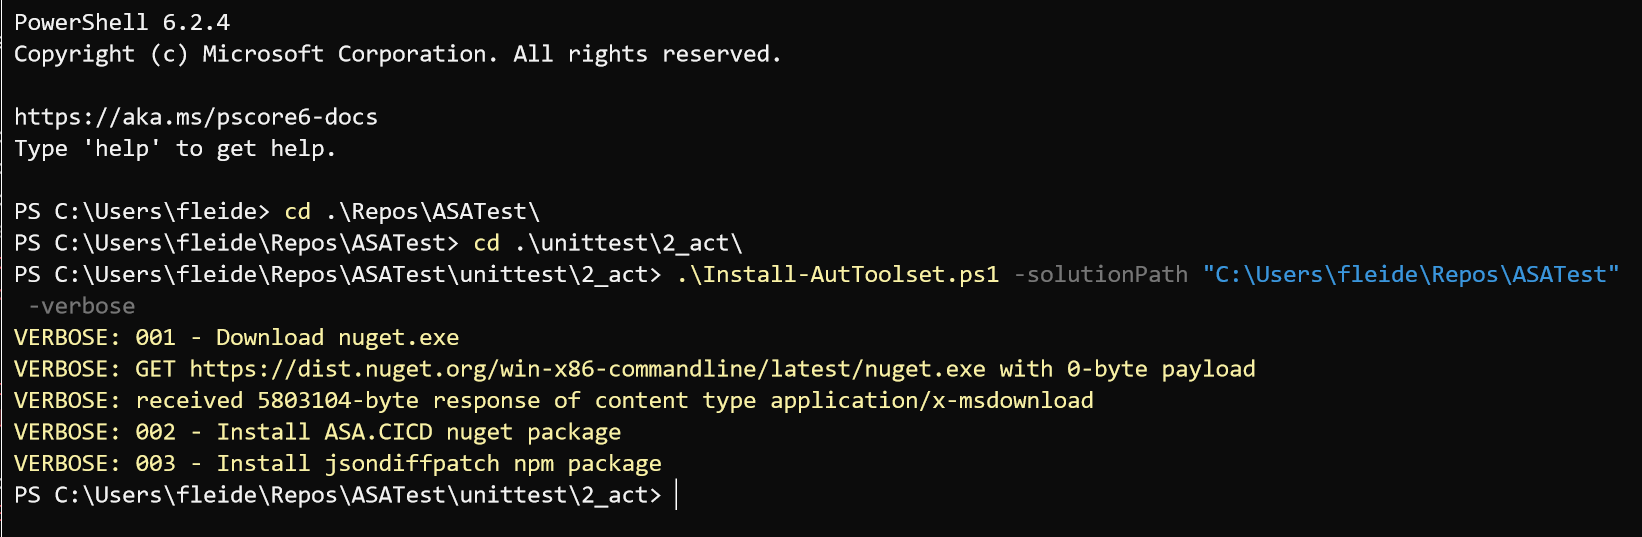
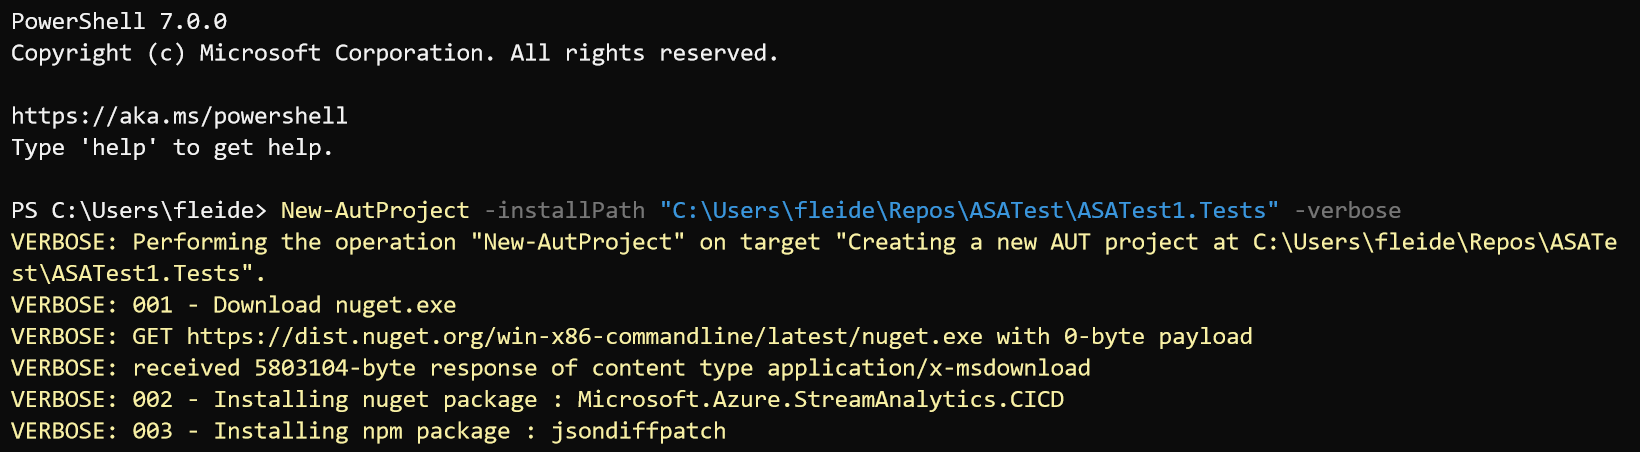
Update doc for 1.0.2

Changed region(s): [[0.0, 0.3717, 0.9951, 0.9912], [0.0, 0.031, 0.4665, 0.1549], [0.0, 0.1858, 0.2488, 0.3407]]

diff --git a/_posts/2020-03-03-asa-alm105.md b/_posts/2020-03-03-asa-alm105.md
@@ -61,10 +61,18 @@ If it's not already the case, we will need to create a solution folder that will
 
 Let's try to keep most of the wiring working by:
 
-- Creating a new `ASATest1` folder in our existing `ASATest1` folder
+- Creating a new `ASATest1` folder in our existing `ASATest` folder
 - Moving the ASA content into it : folders (Functions, Inputs, LocalRunOutputs, Outputs) and files (`asaproj.json`, `ASATest1.asaql`, `JobConfig.json`)
 - Leaving the other folders untouched (Deploy, Provision) but moving the YAML config file in Deploy (not necessary but why not at this point)
-- Creating a `ASATest1.tests` folder in the solution folder
+- Creating a `ASATest1.Tests` folder that will host our test fixture
+
+On a schema:
+
+- ASATes <- *Existing top solution folder*
+  - **ASATest1** <- *New ASA project folder, we're moving all the ASA files in there*
+  - **ASATest1.Tests** <- *New empty folder for the test project*
+  - Deploy <- *Existing deployment folder, **now with the YAML file too***
+  - Provision <- *Existing provisioning folder*
 
 On a picture:
 
@@ -88,7 +96,7 @@ Becomes
 $scriptPath = "$sourceDirectory\$sourceProjectName\$sourceProjectName.asaql"
 ```
 
-> Note that re-reading that script, I have a strong urge to rewrite it using proper PowerShell. Those hard-coded values... Maybe later...
+> Note that re-reading that script, I have a strong urge to rewrite it using better PowerShell. Those hard-coded values... Maybe later...
 
 Then in Azure DevOps, we will need to fix the yaml path of the build pipeline by going in the settings (edit mode, vertical ellipsis top right) and updating the value to `deploy/azure-pipelines.yml`
 
@@ -100,15 +108,13 @@ Once fixed, we should trigger a run and check that it's successful, down to the 
 
 ### Unittest
 
-Finally, in the `unittest` folder, we should go in the folder `2_act` and run `Install-AutToolset.ps1`. Then in a PowerShell terminal:
+Finally, for the `ASATest1.Tests` folder, we should run the **asa.unittest** command that will create an empty fixture and download dependencies. In a PowerShell terminal:
 
 ```PowerShell
-.\Install-AutToolset.ps1 -solutionPath "C:\Users\fleide\Repos\ASATest1" -verbose
+New-AutProject -installPath "C:\...\ASATest1.Tests" -verbose
 ```
 
 As usual, if we get an execution policy warning, we can just `Set-ExecutionPolicy Bypass` to get around it. As a reminder, the VSCode PowerShell integrated console has [a weird behavior](https://github.com/PowerShell/vscode-powershell/issues/1217) around execution policies, so it's best to avoid it and use [another Terminal](https://www.microsoft.com/en-us/p/windows-terminal-preview/9n0dx20hk701?ranMID=24542&ranEAID=TnL5HPStwNw&ranSiteID=TnL5HPStwNw-UDWMLG8.vwB2U4dqg2Flhw&epi=TnL5HPStwNw-UDWMLG8.vwB2U4dqg2Flhw&irgwc=1&OCID=AID681541_aff_7593_1243925&tduid=%28ir__zlyl9dwgqkkfr3dlkk0sohzx0m2xj1uvbfrd6e0v00%29%287593%29%281243925%29%28TnL5HPStwNw-UDWMLG8.vwB2U4dqg2Flhw%29%28%29&irclickid=_zlyl9dwgqkkfr3dlkk0sohzx0m2xj1uvbfrd6e0v00&activetab=pivot%3Aoverviewtab) instead.
-
-To be noted that if we hadn't used the default `unittest` folder name, we could have used the `-unittestFolder` parameter of `Install-AutToolset` to pass our specific value.
 
 ![figure 5 - Windows Terminal, installing the toolset screenshot](https://raw.githubusercontent.com/Fleid/fleid.github.io/master/_posts/201912_asa_alm101/asa_alm105_iat.png)
 
@@ -118,7 +124,7 @@ After all that we should be ready to do some testing.
 
 ## Local unit testing
 
-First, we'll define 2 or 3 tests to run locally. If we take a look at the content of the `unittest\1_arrange` folder for inspiration, we'll see that a test case is made of input and output files named according to a convention. Let's not repeat [the full doc here](https://github.com/Fleid/asa.unittest#configuring-a-test-case) but instead build the following cases for the current query to be tested:
+First, we'll define 2 or 3 tests to run locally. If we take a look at the content of the [example folder](https://github.com/Fleid/asa.unittest/tree/master/examples/ASAHelloWorld.Tests/1_arrange) of the **asa.unittest** repo for inspiration, we'll see that a test case is made of input and output files named according to a convention. Let's not repeat [the full doc here](https://github.com/Fleid/asa.unittest#configuring-a-test-case) but instead build the following cases for the current query to be tested:
 
 ```SQL
 SELECT
@@ -133,7 +139,7 @@ GROUP BY deviceId, TumblingWindow(second,5)
 
 We can use [live extracts](https://docs.microsoft.com/en-us/azure/stream-analytics/visual-studio-code-local-run#prepare-sample-data)  to generate test input data. For test output data, the best is to leverage the output files in the `LocalRunOutputs` folder, located in the ASA project after a successful local run. Note that these files may be generated in a line separated format which is not supported by the test runner, see the doc above on how to address that.
 
-We can remove the files already in `unittest\1_assert`, as they are provided only to help us understand the naming conventions, and add the following 6 files instead:
+Let's add the following 6 files in the `ASATest1.Tests\1_assert` folder. That's where the fixture is expecting them to be:
 
 - **001\~Input\~IoTHub1\~Nominal.json**
 
@@ -194,19 +200,23 @@ Here we completely remove the `temperature` field from message 229 and check the
 ]
 ```
 
-Once this is set up, we can use the test runner to verify that when the query is applied on an input test set, it generates the expected output, matching the output provided. The test runner, `Start-AutRun.ps1`, will need the project name (`ASATest1` here), the solution folder path, but also an assert path - where to output the test results. By convention it should be set to `unittest\3_assert`.
+Once this is set up, we can use the test runner to verify that when the query is applied on an input test set, it generates the expected output, matching the output provided. The test runner, `Start-AutRun`, will need the project name (`ASATest1` here) and the solution folder path.
 
-In a PowerShell terminal, back in `unittest\2_act`:
+In a PowerShell terminal:
 
 ```PowerShell
-.\Start-AutRun.ps1 -asaProjectName ASATest1 -solutionPath "C:\Users\fleide\Repos\ASATest" -assertPath "C:\Users\fleide\Repos\ASATest\unittest\3_assert" -verbose
+Start-AutRun -asaProjectName "ASATest1" -solutionPath "C:\...\ASATest"-verbose
 ```
+
+If we had decided on something different than `ASATest1.Tests` for the name of the folder hosting our tests, we could have used the parameter `unittestFolder` to override the default mapping.
+
+We may have a n**etwork access warning from Windows** at that point, from something called `SA`. It's the same warning we get when running local jobs in VSCode or Visual Studio. `SA` is actually `sa.exe`, the executable running the ASA engine locally.
 
 ![figure 6 - Windows Terminal, successful test run](https://raw.githubusercontent.com/Fleid/fleid.github.io/master/_posts/201912_asa_alm101/asa_alm105_localrun.png)
 
 *[figure 6 - Windows Terminal, successful test run](https://raw.githubusercontent.com/Fleid/fleid.github.io/master/_posts/201912_asa_alm101/asa_alm105_localrun.png)*
 
-We can also have a look at the output folder (`\unittest\3_assert`) to see the details of the run.
+No output means that the tests run successfully. We can have a look at the output folder (`\ASATest1.Tests\3_assert`) to see the details of the run.
 
 Now is a good time to test messing with the query, or the input/output test files, to see how the test runner behave.
 
